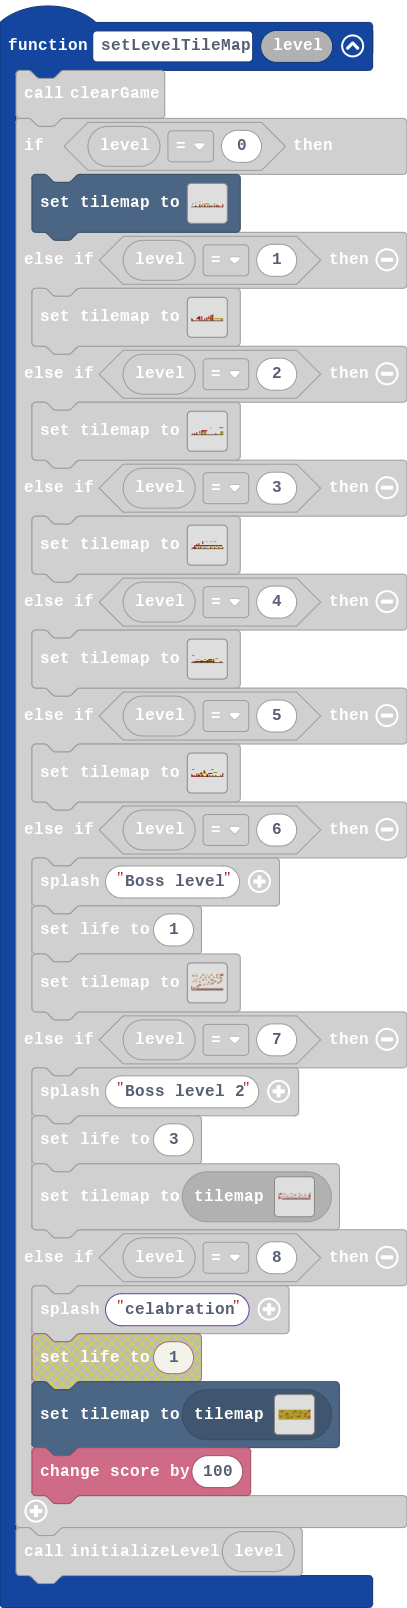
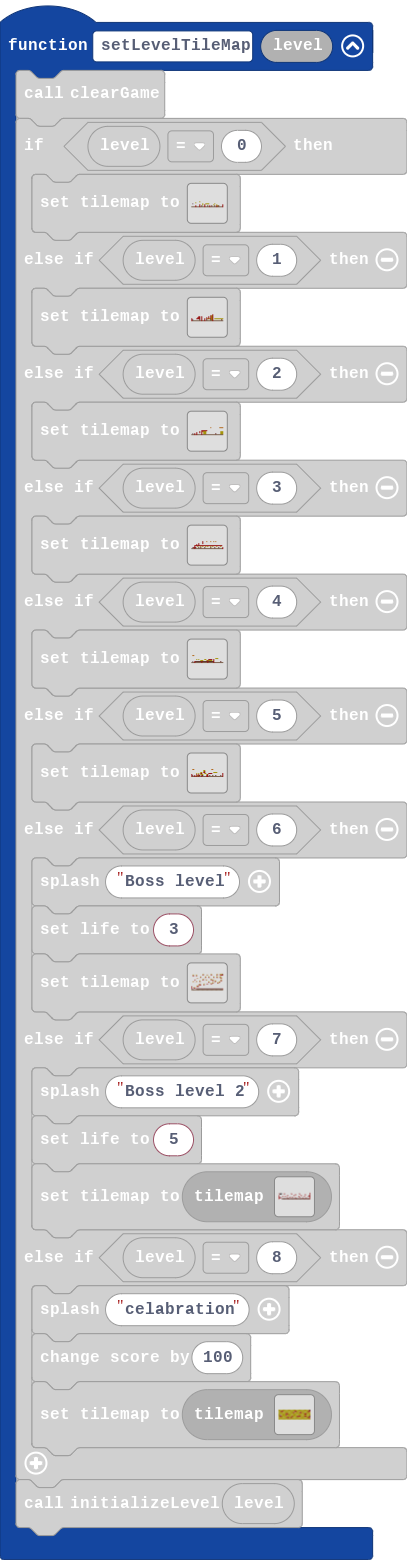
Update main.blocks, main.ts

diff --git a/main.ts b/main.ts
@@ -290,11 +290,11 @@ function setLevelTileMap (level: number) {
         tiles.setTilemap(tilemap`level_4`)
     } else if (level == 6) {
         game.splash("Boss level")
-        info.setLife(1)
+        info.setLife(3)
         tiles.setTilemap(tilemap`level_5`)
     } else if (level == 7) {
         game.splash("Boss level 2")
-        info.setLife(3)
+        info.setLife(5)
         tiles.setCurrentTilemap(tilemap`level4`)
     } else if (level == 8) {
         game.splash("celabration")
